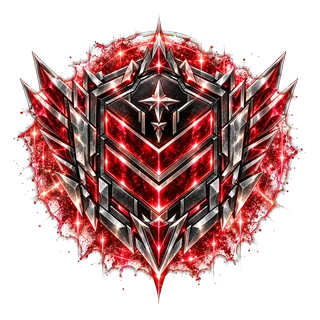
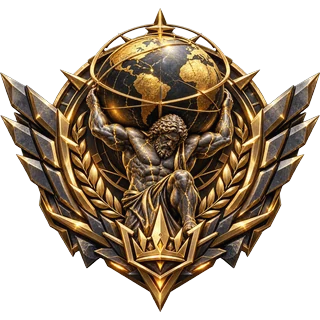
Nuevo emblema y color dorado para el rango Atlas (#78)
* Nuevo emblema para el rango Atlas

Claude-Session: https://claude.ai/code/session_01C1Lo4gkgZNyyQCw32DhbVR

* Color dorado para el rango Atlas

Claude-Session: https://claude.ai/code/session_01C1Lo4gkgZNyyQCw32DhbVR

---------

diff --git a/src/SocialTab.jsx b/src/SocialTab.jsx
@@ -15,7 +15,7 @@ import { summarizeStudy, buildFriendModel, compareByRank, heatmapCells, weekStar
 /* ------------------------------------------------------------------ */
 
 // Colores de cada rango (elegidos para que se lean bien en modo claro y oscuro).
-const TIER_COLORS = ["#7A8AA6", "#4F86D9", "#2FB36D", "#D98A0B", "#E8681C", "#A855D6", "#E5484D"];
+const TIER_COLORS = ["#7A8AA6", "#4F86D9", "#2FB36D", "#D98A0B", "#E8681C", "#A855D6", "#D4A81F"];
 
 function fmtNum(n, d = 2) {
   return Number(n).toLocaleString("es-ES", { minimumFractionDigits: d, maximumFractionDigits: d });
